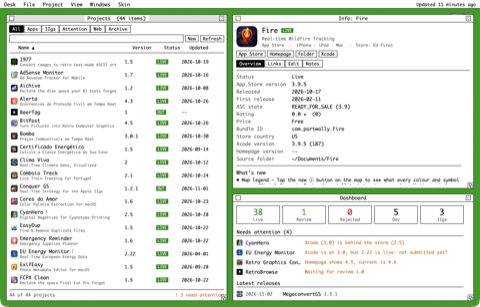
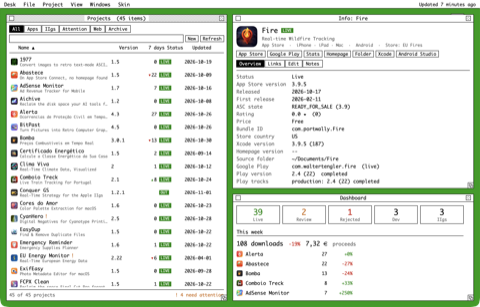
Wally's Manager: statistics and Google Play on the homepage, new screenshots
New sections for sales and statistics and for Google Play and Android, each with a screenshot; the six skin screenshots retaken with the 7-day column, This week box and Google Play rows; privacy page lists every service the app contacts.

diff --git a/Wallys Manager/index.html b/Wallys Manager/index.html
@@ -4,8 +4,8 @@
     <meta charset="UTF-8">
     <meta name="viewport" content="width=device-width, initial-scale=1.0">
     <title>Wally's Manager - a retro project organizer for App Store and Apple IIgs developers</title>
-    <meta name="description" content="Wally's Manager keeps every app you ship in one place: App Store versions and review status, Xcode and homepage versions, GitHub releases, links, and Apple IIgs disk images you can boot in MAME. In the look of the Apple IIgs, Amiga, Atari ST, MS-DOS, Windows 3.1 or Windows 95.">
-    <meta name="keywords" content="project organizer, indie developer, App Store Connect, app versions, review status, Apple IIgs, GS/OS, Amiga Workbench, Atari ST GEM, MS-DOS, Windows 95, retro, macOS, MAME, Ample">
+    <meta name="description" content="Wally's Manager keeps every app you ship in one place: App Store and Google Play versions, review status, sales, downloads, App Analytics, reviews and earnings, Xcode and Android Studio versions, GitHub releases, links, and Apple IIgs disk images you can boot in MAME. In the look of the Apple IIgs, Amiga, Atari ST, MS-DOS, Windows 3.1 or Windows 95.">
+    <meta name="keywords" content="project organizer, indie developer, App Store Connect, Google Play Console, app sales, app analytics, Android, app versions, review status, Apple IIgs, GS/OS, Amiga Workbench, Atari ST GEM, MS-DOS, Windows 95, retro, macOS, MAME, Ample">
     <meta property="og:title" content="Wally's Manager">
     <meta property="og:description" content="Every app you ship, in one retro desktop.">
     <meta property="og:image" content="https://portwally.github.io/Wallys%20Manager/screens/iigs.png">
@@ -25,7 +25,8 @@
     <nav class="menubar" aria-label="Sections">
         <a class="logo" href="#top" aria-label="Wally's Manager, top of page"><img src="img/icon-64.png" alt=""><span class="logo-text"></span></a>
         <a href="#what">Features</a>
-        <a href="#attention">Attention</a>
+        <a href="#stats">Stats</a>
+        <a href="#android">Android</a>
         <a href="#iigs">IIgs</a>
         <a href="#skins">Skins</a>
         <a href="#data">Privacy</a>
@@ -53,9 +54,10 @@
                     <img class="app-icon" src="img/icon.png" width="512" height="512" alt="The Wally's Manager icon: a pixel-art window with a project list and a 3.5 inch floppy disk">
                     <div>
                         <p class="tagline">Every app you ship, in one retro desktop.</p>
-                        <p>A project organizer for the Mac. It lists all your apps with their App Store version, review status, Xcode version, homepage and GitHub release, tells you which of them need attention, and keeps your Apple IIgs disk images one click away from booting in MAME.</p>
+                        <p>A project organizer for the Mac. It lists all your apps with their App Store and Google Play versions, review status, sales, downloads and reviews, compares them with Xcode, Android Studio, your homepage and GitHub, tells you which of them need attention, and keeps your Apple IIgs disk images one click away from booting in MAME.</p>
                         <p class="chips">
                             <span>macOS 15 or later</span>
+                            <span>App Store + Google Play</span>
                             <span>Six skins</span>
                             <span>Not released yet</span>
                         </p>
@@ -73,11 +75,11 @@
             <h2 class="tb" id="what-title"><i class="gl"></i><span>What it shows</span><i class="gr"></i></h2>
             <div class="body">
                 <ul class="list">
-                    <li><b>Every project in one list.</b> App Store apps, Mac apps sold elsewhere, Apple IIgs programs and plain websites, with icon, version, status and the date of the last release.</li>
-                    <li><b>Four versions side by side.</b> The one live in the App Store, the one in your Xcode project, the one your homepage mentions, and the latest GitHub release.</li>
-                    <li><b>Review status.</b> With an App Store Connect API key it shows Waiting for Review, In Review, Rejected and Ready for Sale, without opening the website.</li>
-                    <li><b>One click away.</b> App Store page, homepage, GitHub, source folder and Xcode project, from every project.</li>
-                    <li><b>Set up in seconds.</b> On first launch it reads your homepage folder and finds the App Store IDs, GitHub repos, versions and source folders by itself.</li>
+                    <li><b>Every project in one list.</b> App Store apps, Android apps, Mac apps sold elsewhere, Apple IIgs programs and plain websites, with icon, version, status, downloads of the last 7 days and the date of the last release.</li>
+                    <li><b>All the versions side by side.</b> Live in the App Store and on Google Play, in Xcode and Android Studio, on your homepage, and the latest GitHub release.</li>
+                    <li><b>Review status.</b> Waiting for Review, In Review, Rejected and Ready for Sale from App Store Connect; tracks, staged rollouts and halted releases from Google Play.</li>
+                    <li><b>One click away.</b> App Store, Google Play, homepage, GitHub, source folder, Xcode and Android Studio, from every project.</li>
+                    <li><b>Set up in seconds.</b> It reads your homepage folder, matches your App Store Connect apps by ID, bundle ID or name, and finds your Xcode and Android projects by itself.</li>
                 </ul>
             </div>
         </section>
@@ -90,10 +92,47 @@
                     <li><span class="warn">!</span> Xcode is at 3.0, but 2.22 is live: not submitted yet?</li>
                     <li><span class="warn">!</span> Homepage shows 4.5, current is 4.6</li>
                     <li><span class="info">&middot;</span> Waiting for review 1.0</li>
+                    <li><span class="warn">!</span> Android Studio is at 2.5, but Google Play has 2.4</li>
+                    <li><span class="warn">!</span> Downloads down 45% this week</li>
+                    <li><span class="warn">!</span> New &#9733;&#9733; review</li>
                     <li><span class="bad">!!</span> 1 disk image missing on disk</li>
-                    <li><span class="info">&middot;</span> No update for 214 days</li>
                 </ul>
                 <p class="small">The kinds of lines the Dashboard shows. Click one and the project it is about opens.</p>
+            </div>
+        </section>
+
+        <section class="window" id="stats" aria-labelledby="stats-title">
+            <h2 class="tb" id="stats-title"><i class="gl"></i><span>Sales and statistics</span><i class="gr"></i></h2>
+            <div class="body feature">
+                <figure>
+                    <img src="screens/stats.png" width="1200" height="714" loading="lazy" alt="The Statistics window for one app in the Apple IIgs skin: App Store and Google Play tabs, 30-day tiles for downloads, proceeds, updates, re-downloads and in-app purchases, a bar chart of downloads per day, top countries and devices">
+                    <figcaption class="small">The Statistics window, one per app, with a tab for each store.</figcaption>
+                </figure>
+                <ul class="list">
+                    <li><b>Downloads and proceeds.</b> First downloads, updates, re-downloads and in-app purchases over 7, 30 or 90 days or a year, with the change against the period before and a bar chart per day or month.</li>
+                    <li><b>Where and on what.</b> Top countries and the split between iPhone, iPad and Mac.</li>
+                    <li><b>App Analytics.</b> Impressions, product page views, conversion, where downloads come from, sessions, active devices, crashes and deletions.</li>
+                    <li><b>Reviews and earnings.</b> The latest written reviews, and what each month&rsquo;s financial report says you earned, converted to your currency.</li>
+                    <li><b>This week.</b> The Dashboard adds it all up: downloads and proceeds of the week, the apps that grew or dropped, and earnings of the last 12 months.</li>
+                    <li><b>Fetched once, kept for good.</b> Every report is downloaded once and stays on your Mac, so the history keeps growing.</li>
+                </ul>
+            </div>
+        </section>
+
+        <section class="window" id="android" aria-labelledby="android-title">
+            <h2 class="tb" id="android-title"><i class="gl"></i><span>Google Play and Android</span><i class="gr"></i></h2>
+            <div class="body feature">
+                <ul class="list">
+                    <li><b>One project, two stores.</b> The Android version of an app lives in the same project as the iOS one, with its own Google Play button and its own tab in the statistics.</li>
+                    <li><b>Android Studio projects found.</b> Package name, versionName and versionCode are read from your Gradle files; one click opens the project in Android Studio.</li>
+                    <li><b>Tracks and rollouts.</b> Production, beta, alpha, internal and closed tests with their versions and status, read without touching your listing.</li>
+                    <li><b>Installs and health.</b> Installs per country, updates, uninstalls, active devices, crashes, ANRs, ratings and earnings from Play Console&rsquo;s reports.</li>
+                    <li><b>Google Play reviews</b> are kept as they come in, and bad ones show up on the Dashboard next to the App Store&rsquo;s.</li>
+                </ul>
+                <figure>
+                    <img src="screens/google-play.png" width="1100" height="818" loading="lazy" alt="The Info window for Fire: App Store, Google Play and Android Studio buttons, the App Store version and state, the Google Play package, release and tracks, and the Android Studio version">
+                    <figcaption class="small">App Store, Xcode, Google Play and Android Studio in one Info window.</figcaption>
+                </figure>
             </div>
         </section>
 
@@ -113,10 +152,12 @@
             <h2 class="tb" id="data-title"><i class="gl"></i><span>Where the numbers come from</span><i class="gr"></i></h2>
             <div class="body">
                 <ul class="list">
-                    <li><b>Your Mac:</b> the homepage folder, your Xcode projects and your disk images. Nothing is copied or uploaded.</li>
+                    <li><b>Your Mac:</b> the homepage folder, your Xcode and Android Studio projects and your disk images. Nothing is copied or uploaded.</li>
                     <li><b>Apple&rsquo;s public App Store lookup</b> for versions, dates, release notes, ratings and icons.</li>
-                    <li><b>GitHub&rsquo;s API</b> for the latest releases.</li>
-                    <li><b>App Store Connect</b>, only if you add your own API key. The key stays in your Keychain.</li>
+                    <li><b>App Store Connect</b>, with your own API key: review states, sales and financial reports, App Analytics and reviews.</li>
+                    <li><b>Google Play</b>, with your own service account: tracks, reviews and Play Console&rsquo;s reports.</li>
+                    <li><b>GitHub&rsquo;s API</b> for the latest releases, and the European Central Bank&rsquo;s exchange rates for proceeds.</li>
+                    <li>Your keys stay in your Keychain.</li>
                 </ul>
                 <p>No account, no tracking, no server of its own. The data lives in a file on your Mac.</p>
             </div>
@@ -201,9 +242,10 @@
     <nav class="fkeys" aria-label="Function keys">
         <a href="#top"><b>1</b>Top</a>
         <a href="#what"><b>2</b>Features</a>
-        <a href="#iigs"><b>3</b>IIgs</a>
-        <a href="#skins"><b>4</b>Skins</a>
-        <a href="#data"><b>5</b>Privacy</a>
+        <a href="#stats"><b>3</b>Stats</a>
+        <a href="#android"><b>4</b>Android</a>
+        <a href="#skins"><b>5</b>Skins</a>
+        <a href="#data"><b>6</b>Privacy</a>
         <button type="button" class="fk-skin"><b>9</b>Skin</button>
         <a href="../"><b>10</b>Exit</a>
     </nav>

diff --git a/Wallys Manager/privacy.html b/Wallys Manager/privacy.html
@@ -25,21 +25,24 @@
         <section class="window legal" aria-labelledby="t">
             <h1 class="tb" id="t"><i class="gl"></i><span>Privacy Policy</span><i class="gr"></i></h1>
             <div class="body">
-                <p><em>Last updated: 5 November 2026</em></p>
+                <p><em>Last updated: 5 November 2026 (Google Play and statistics added)</em></p>
                 <p>Wally's Manager is a macOS app that organizes your own software projects. It runs on your Mac and has no server of its own.</p>
 
                 <h2>Data the app uses</h2>
                 <ul>
-                    <li>Folders and files on your Mac that you point it to: your homepage folder, your source folders and Xcode projects, and Apple IIgs disk images. They are read, not uploaded.</li>
-                    <li>The list of projects it builds is stored in a file in your Library folder, on your Mac only.</li>
-                    <li>An optional App Store Connect API key and GitHub token are stored in your macOS Keychain.</li>
+                    <li>Folders and files on your Mac that you point it to: your homepage folder, your source folders, Xcode and Android Studio projects, and Apple IIgs disk images. They are read, not uploaded.</li>
+                    <li>The list of projects, and the sales, statistics, reviews and earnings it downloads for your own apps, are stored in a file in your Library folder, on your Mac only.</li>
+                    <li>Your optional App Store Connect API key, Google service account key and GitHub token are stored in your macOS Keychain.</li>
                 </ul>
 
                 <h2>Network requests the app makes</h2>
                 <ul>
                     <li>Apple's public App Store lookup (itunes.apple.com), with the App Store IDs of your apps, to read versions, dates, ratings and icons.</li>
                     <li>GitHub's API (api.github.com), with the names of your repositories, to read the latest releases.</li>
-                    <li>App Store Connect (api.appstoreconnect.apple.com), only if you add your own API key, to read the review status of your apps.</li>
+                    <li>App Store Connect (api.appstoreconnect.apple.com), only if you add your own API key: review status, sales and financial reports, App Analytics reports and customer reviews of your apps. If you allow it, the app asks Apple once per app to prepare App Analytics reports.</li>
+                    <li>Google (oauth2.googleapis.com, androidpublisher.googleapis.com, storage.googleapis.com), only if you add your own service account: to sign in, to read your Google Play tracks and reviews, and to read the reports Play Console keeps for your account. Tracks are read through a temporary edit that is deleted right away; nothing on your listings changes.</li>
+                    <li>The public Google Play page of each package (play.google.com), to see whether an app is published.</li>
+                    <li>The European Central Bank (www.ecb.europa.eu), for daily exchange rates to convert proceeds.</li>
                 </ul>
                 <p>Nothing else is sent anywhere. The app has no analytics, no advertising, no account and no tracking.</p>
 

diff --git a/Wallys Manager/style.css b/Wallys Manager/style.css
@@ -211,6 +211,13 @@ button { font: inherit; color: inherit; }
 
 .link { background: none; border: 0; text-decoration: underline; cursor: pointer; padding: 0; }
 
+/* Feature windows: screenshot next to the list */
+.feature { display: grid; grid-template-columns: minmax(0, 1.35fr) minmax(0, 1fr); gap: 24px; align-items: start; }
+.feature > * + * { margin-top: 0; }
+#android .feature { grid-template-columns: minmax(0, 1fr) minmax(0, 1.2fr); }
+.feature figure img { display: block; width: 100%; border: 2px solid var(--border); }
+.feature figcaption { margin-top: 6px; }
+
 /* Attention lines */
 .attention { list-style: none; border: 2px solid var(--border); padding: 10px 12px; background: var(--win); }
 .attention li { display: flex; gap: 10px; }
@@ -500,6 +507,8 @@ button { font: inherit; color: inherit; }
 /* ───────────── Small screens ───────────── */
 @media (max-width: 860px) {
     .span7, .span5, .span6 { grid-column: span 12; }
+    .feature, #android .feature { grid-template-columns: minmax(0, 1fr); gap: 16px; }
+    #android .feature figure { order: -1; }
     .gallery { grid-template-columns: repeat(2, minmax(0, 1fr)); }
 }
 @media (max-width: 560px) {
